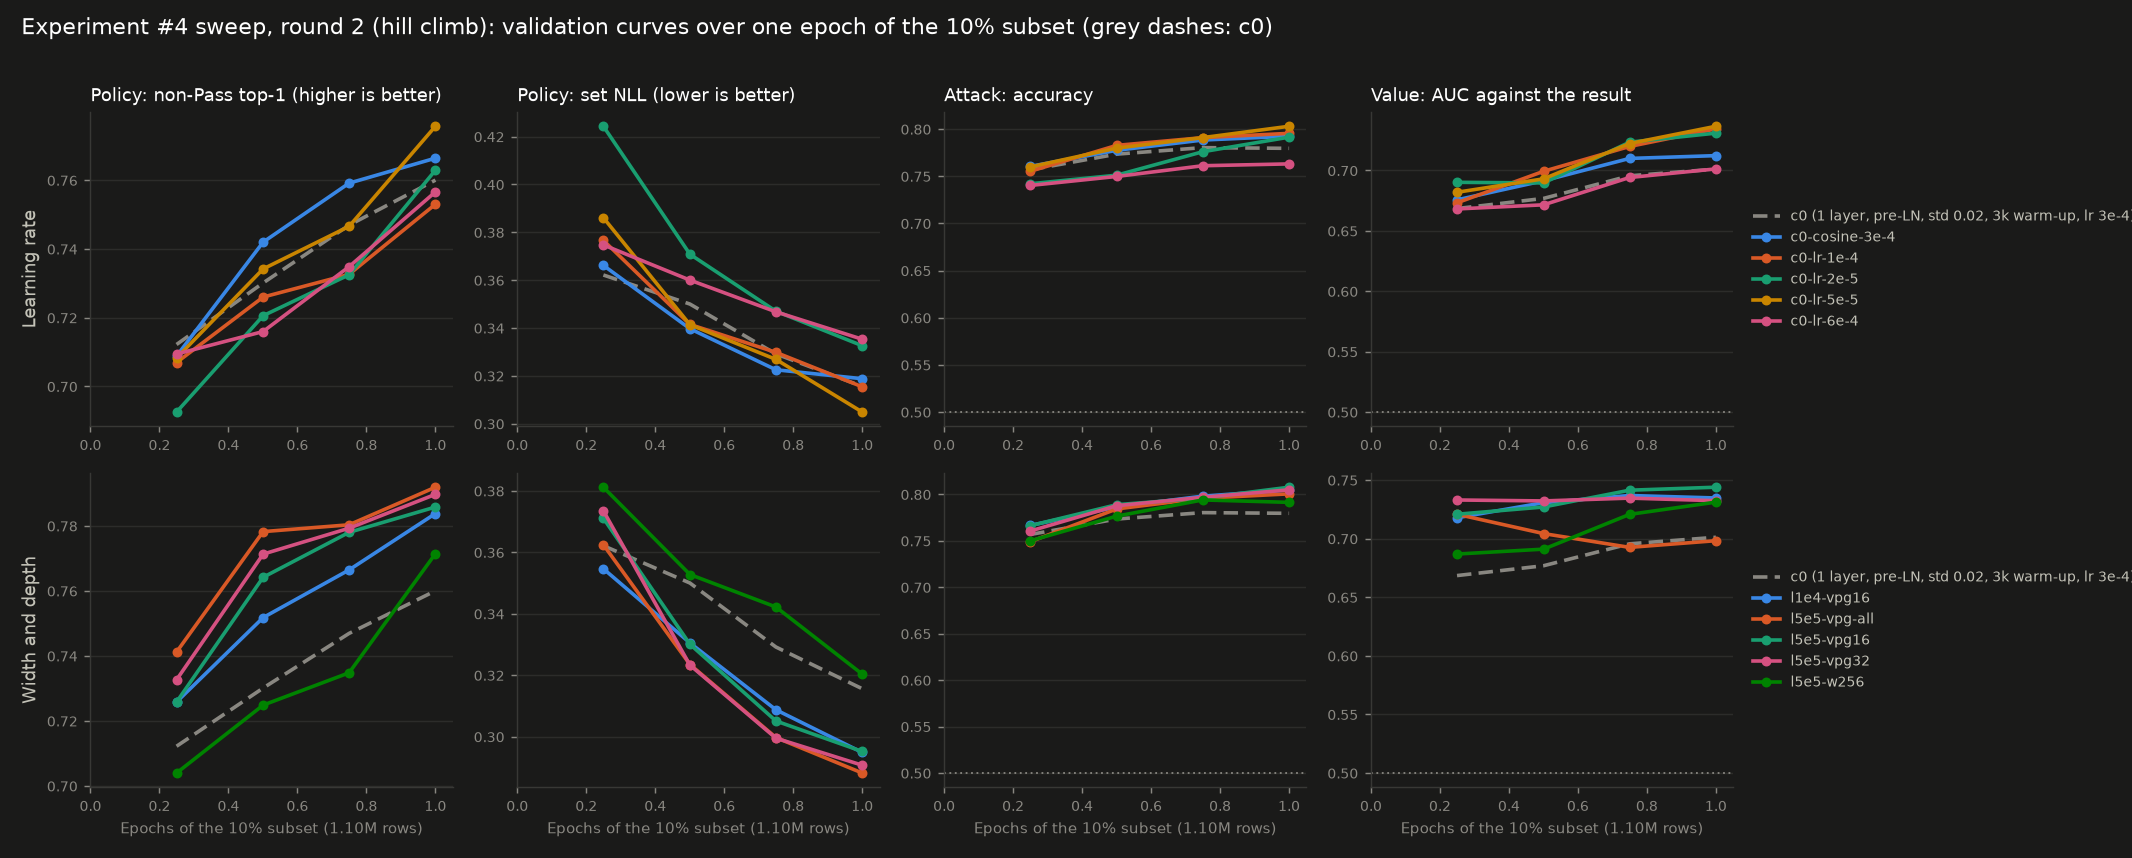
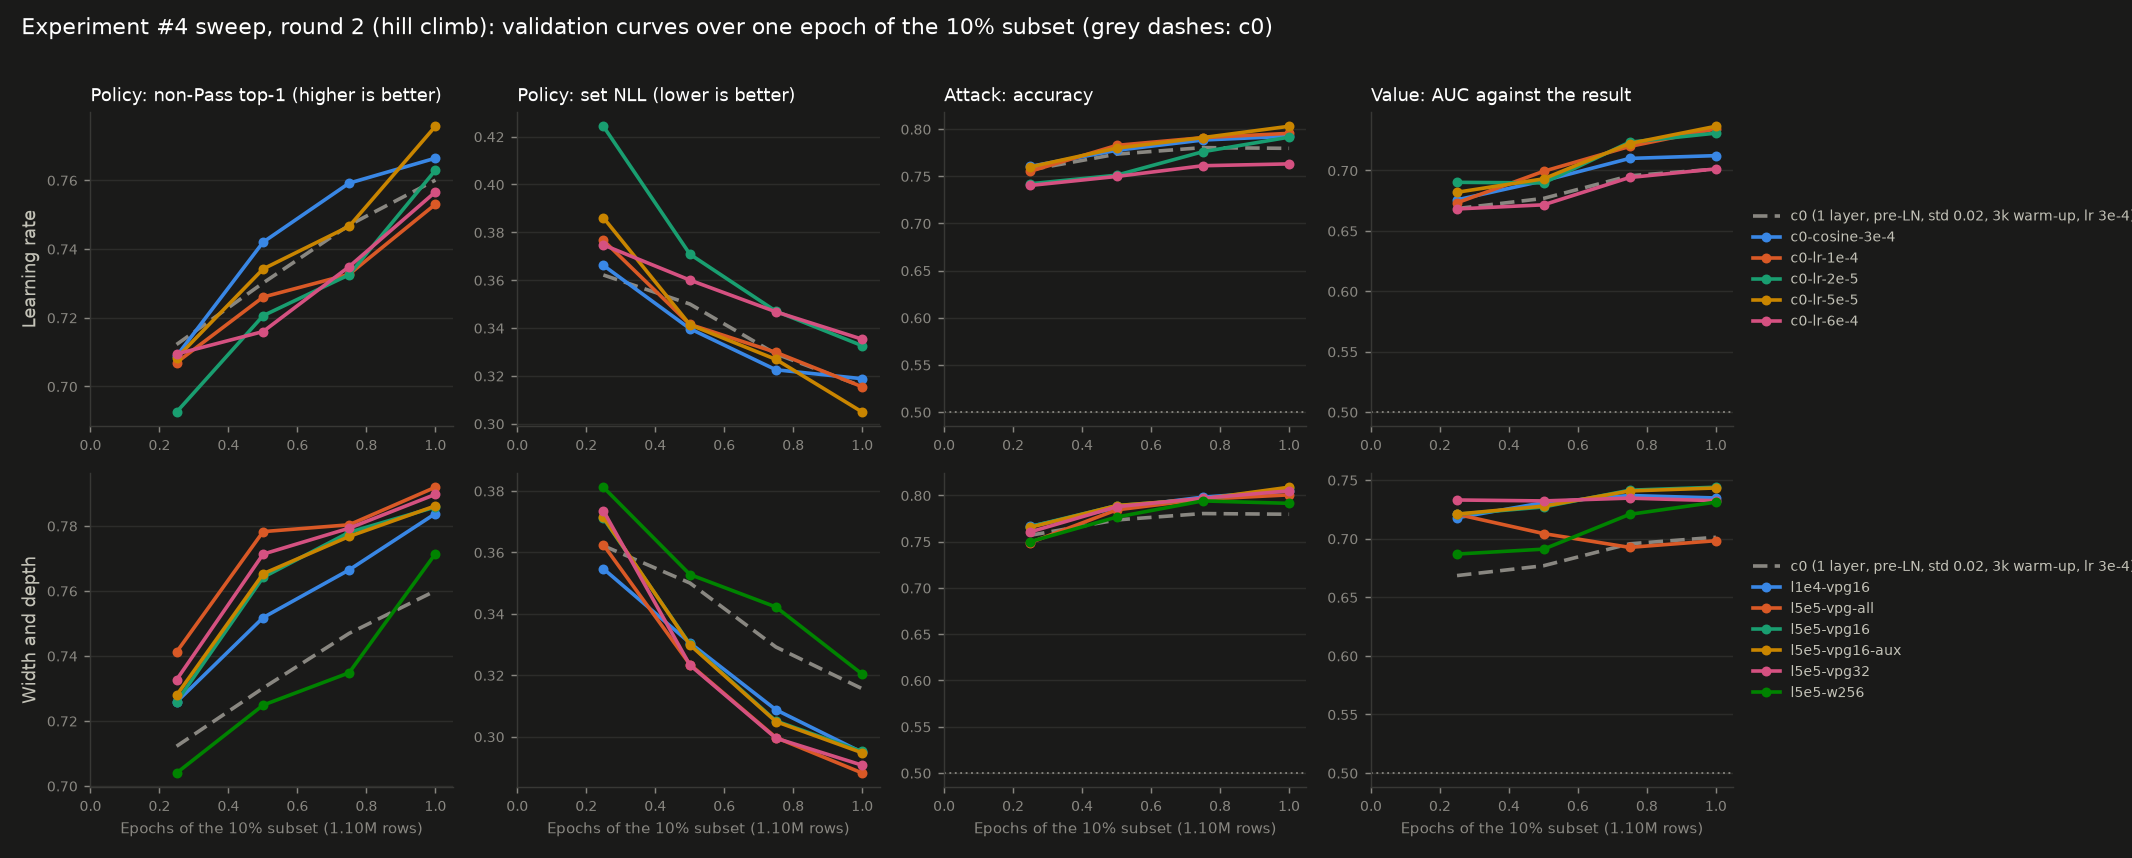
Docs/018: round 2 check-in 15:16 (turns-left head neutral); overfitting checks

diff --git a/docs/018-experiment4-results.md b/docs/018-experiment4-results.md
@@ -273,8 +273,18 @@ first 1-layer run, stopped at 1.08 epochs, was restarted.
 | `l5e5-vpg-all` | more value positions help further: the value loss on every position | non-Pass 0.792 (+0.006), NLL 0.288 (−0.007), block 0.707 (+0.010); value AUC 0.698 (−0.046), log-loss 0.846 (+0.243) against l5e5-vpg16. The value log-loss was 0.606 at a quarter epoch, then rose as its training loss fell (0.547 to 0.365) | the policy's best yet, but the value head memorises games (one result per game). Keep 16; try the middle |
 | `l5e5-w256` | width 256 is enough at the best learning rate (underfitting probe; 4 value positions) | non-Pass 0.771 (−0.004), NLL 0.320 (+0.015), attack 0.791 (−0.012), value log-loss 0.671 (+0.026) against width 512 at the same settings; inference 2.5x faster | slightly worse everywhere: the underfitting knee for 1 layer is near width 256 at this budget |
 | `l5e5-vpg32` | 32 value positions a game keeps most of every-position's policy gain without the value head overfitting | non-Pass 0.790 (+0.004), NLL 0.291 (−0.004), block 0.704 (+0.007); value AUC 0.732 (−0.012), log-loss 0.648 (+0.045) against l5e5-vpg16. The value log-loss was 0.591 at half an epoch, then rose | rejected: the policy gain is within noise and the value starts to overfit; 16 is the value head's sweet spot |
-| `l5e5-vpg16-aux` | a turns-left head (a target that varies within a game, so it can't be memorised per game) helps the shared trunk too | *running* |  |
-| `l5e5-vpg16-auxres` | decouple: a throwaway result head on every position (aux weight 0.5) gives the trunk every-position's policy gain while the value head keeps 16 positions and stays calibrated (needs a trainer change and a sweep restart, 7016b66) | *queued (next)* |  |
+| `l5e5-vpg16-aux` | a turns-left head (a target that varies within a game, so it can't be memorised per game) helps the shared trunk too | every measure within ±0.004 of l5e5-vpg16 (non-Pass 0.786, NLL 0.295, value AUC 0.743) | neutral: a within-game target adds nothing at this budget |
+| `l5e5-vpg16-auxres` | decouple: a throwaway result head on every position (aux weight 0.5) gives the trunk every-position's policy gain while the value head keeps 16 positions and stays calibrated (needs a trainer change and a sweep restart, 7016b66) | *paused (Dan, 15:10: no pipeline changes for now; it needs new trainer code and a sweep restart)* |  |
+| `v16-w1024` | 1 layer has headroom above width 512 at the leader's recipe | *running* |  |
+
+**Overfitting checks** (Dan asked, 15:10): every curve and leaderboard number is on the validation split
+(held out by draft; never trained on); the test split is untouched until stage 3's network is scored.
+Training and validation losses are compared at every quarter epoch. The policy and attack heads don't
+overfit in one epoch: validation falls with training throughout (each row is seen once). The value head
+is where it shows, since every position of a game shares one result: on every position, its training
+loss fell from 0.547 to 0.365 while its validation log-loss rose from 0.606 to 0.846; with 32 positions
+a game it bottomed at half an epoch; with 16 it stayed flat (~0.60). Settings are chosen on validation,
+so the winner's validation numbers are slightly optimistic.
 
 <!-- r2-board -->
 
@@ -284,15 +294,16 @@ first 1-layer run, stopped at 1.08 epochs, was restarted.
 |---|---|---|---|---|---|---|---|---|---|---|---|
 | 1 | `l5e5-vpg-all` | transformer, 1 layer, width 512, pre-LN, lr 5e-05, emb std 0.02, warm-up 3000 | 0.792 | 0.288 | 0.801 | 0.707 | 0.548 | 0.698 | 0.846 | 97.2% | 2,150 |
 | 2 | `l5e5-vpg32` | transformer, 1 layer, width 512, pre-LN, lr 5e-05, emb std 0.02, warm-up 3000 | 0.790 | 0.291 | 0.805 | 0.704 | 0.547 | 0.732 | 0.648 | 97.1% | 2,153 |
-| 3 | `l1e4-vpg16` | transformer, 1 layer, width 512, pre-LN, lr 0.0001, emb std 0.02, warm-up 3000 | 0.784 | 0.295 | 0.805 | 0.697 | 0.574 | 0.735 | 0.617 | 97.1% | 2,149 |
-| 4 | `l5e5-vpg16` | transformer, 1 layer, width 512, pre-LN, lr 5e-05, emb std 0.02, warm-up 3000 | 0.786 | 0.295 | 0.808 | 0.697 | 0.547 | 0.744 | 0.603 | 97.4% | 2,125 |
-| 5 | `c0-lr-5e-5` | transformer, 1 layer, width 512, pre-LN, lr 5e-05, emb std 0.02, warm-up 3000 | 0.776 | 0.305 | 0.803 | 0.693 | 0.534 | 0.737 | 0.645 | 97.8% | 2,156 |
-| 6 | `c0-lr-1e-4` | transformer, 1 layer, width 512, pre-LN, lr 0.0001, emb std 0.02, warm-up 3000 | 0.753 | 0.315 | 0.795 | 0.700 | 0.550 | 0.734 | 0.636 | 98.3% | 2,157 |
-| 7 | `c0` | transformer, 1 layer, width 512, pre-LN, lr 0.0003, emb std 0.02, warm-up 3000 | 0.760 | 0.316 | 0.780 | 0.688 | 0.554 | 0.701 | 0.655 | 97.8% | 2,144 |
-| 8 | `c0-cosine-3e-4` | transformer, 1 layer, width 512, pre-LN, lr 0.0003 cosine, emb std 0.02, warm-up 3000 | 0.766 | 0.319 | 0.792 | 0.691 | 0.551 | 0.712 | 0.654 | 99.8% | 2,151 |
-| 9 | `l5e5-w256` | transformer, 1 layer, width 256, pre-LN, lr 5e-05, emb std 0.02, warm-up 3000 | 0.771 | 0.320 | 0.791 | 0.694 | 0.542 | 0.731 | 0.671 | 99.5% | 5,374 |
-| 10 | `c0-lr-2e-5` | transformer, 1 layer, width 512, pre-LN, lr 2e-05, emb std 0.02, warm-up 3000 | 0.763 | 0.333 | 0.791 | 0.689 | 0.498 | 0.731 | 0.671 | 99.8% | 2,141 |
-| 11 | `c0-lr-6e-4` | transformer, 1 layer, width 512, pre-LN, lr 0.0006, emb std 0.02, warm-up 3000 | 0.757 | 0.335 | 0.763 | 0.684 | 0.556 | 0.701 | 0.634 | 99.5% | 2,167 |
+| 3 | `l5e5-vpg16-aux` | transformer, 1 layer, width 512, pre-LN, lr 5e-05, emb std 0.02, warm-up 3000, +turns_left | 0.786 | 0.295 | 0.809 | 0.698 | 0.543 | 0.743 | 0.606 | 97.3% | 2,146 |
+| 4 | `l1e4-vpg16` | transformer, 1 layer, width 512, pre-LN, lr 0.0001, emb std 0.02, warm-up 3000 | 0.784 | 0.295 | 0.805 | 0.697 | 0.574 | 0.735 | 0.617 | 97.1% | 2,149 |
+| 5 | `l5e5-vpg16` | transformer, 1 layer, width 512, pre-LN, lr 5e-05, emb std 0.02, warm-up 3000 | 0.786 | 0.295 | 0.808 | 0.697 | 0.547 | 0.744 | 0.603 | 97.4% | 2,125 |
+| 6 | `c0-lr-5e-5` | transformer, 1 layer, width 512, pre-LN, lr 5e-05, emb std 0.02, warm-up 3000 | 0.776 | 0.305 | 0.803 | 0.693 | 0.534 | 0.737 | 0.645 | 97.8% | 2,156 |
+| 7 | `c0-lr-1e-4` | transformer, 1 layer, width 512, pre-LN, lr 0.0001, emb std 0.02, warm-up 3000 | 0.753 | 0.315 | 0.795 | 0.700 | 0.550 | 0.734 | 0.636 | 98.3% | 2,157 |
+| 8 | `c0` | transformer, 1 layer, width 512, pre-LN, lr 0.0003, emb std 0.02, warm-up 3000 | 0.760 | 0.316 | 0.780 | 0.688 | 0.554 | 0.701 | 0.655 | 97.8% | 2,144 |
+| 9 | `c0-cosine-3e-4` | transformer, 1 layer, width 512, pre-LN, lr 0.0003 cosine, emb std 0.02, warm-up 3000 | 0.766 | 0.319 | 0.792 | 0.691 | 0.551 | 0.712 | 0.654 | 99.8% | 2,151 |
+| 10 | `l5e5-w256` | transformer, 1 layer, width 256, pre-LN, lr 5e-05, emb std 0.02, warm-up 3000 | 0.771 | 0.320 | 0.791 | 0.694 | 0.542 | 0.731 | 0.671 | 99.5% | 5,374 |
+| 11 | `c0-lr-2e-5` | transformer, 1 layer, width 512, pre-LN, lr 2e-05, emb std 0.02, warm-up 3000 | 0.763 | 0.333 | 0.791 | 0.689 | 0.498 | 0.731 | 0.671 | 99.8% | 2,141 |
+| 12 | `c0-lr-6e-4` | transformer, 1 layer, width 512, pre-LN, lr 0.0006, emb std 0.02, warm-up 3000 | 0.757 | 0.335 | 0.763 | 0.684 | 0.556 | 0.701 | 0.634 | 99.5% | 2,167 |
 
 <picture>
   <source media="(prefers-color-scheme: dark)" srcset="img/018-sweep-r2-dark.png">
